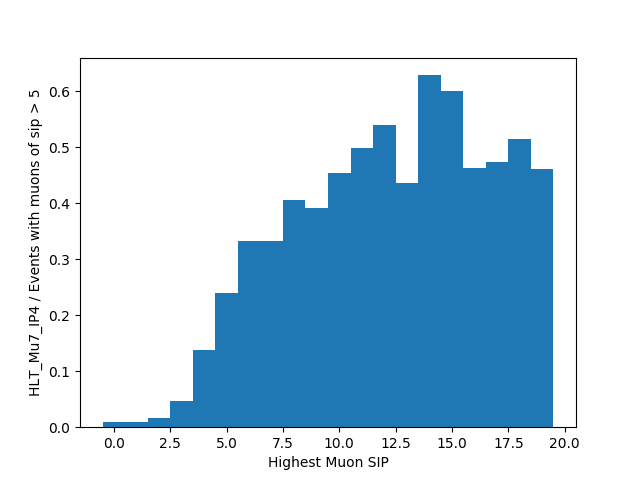
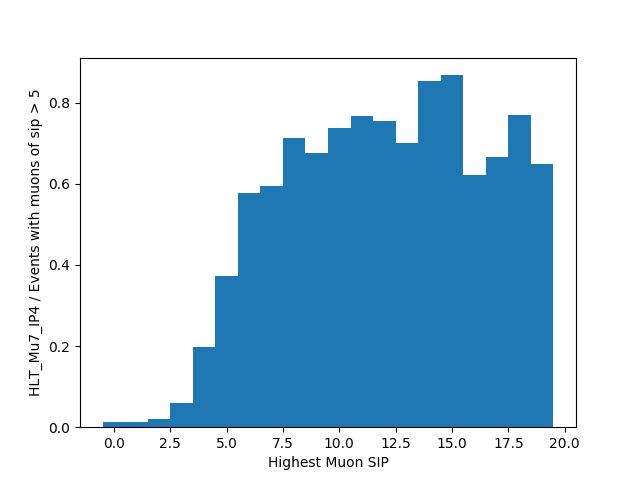
Added global cuts to trigger plots and made Event objects more dynamic on initialization

diff --git a/n00dle.py b/n00dle.py
@@ -132,7 +132,7 @@ def ana(files):
         bs.phi = temp_phi
         del [temp_pt,temp_eta,temp_phi]
 
-        ev = Event(bs.pt,bs,jets)
+        ev = Event(bs,jets)
         jets.cut(jets.pt>0)
         bs.cut(bs.pt>0)
         ev.sync()
@@ -225,11 +225,16 @@ def trig(files):
         ## Open the file and retrieve our key branches
         f = uproot.open(files[fnum])
         events = f.get('Events')
-        Muon = PhysObj('Muon',files[fnum],'pt','eta','phi','sip3d')
+        Muon = PhysObj('Muon',files[fnum],'pt','eta','phi','sip3d','mediumId')
         Trig = PhysObj('trig')
         Trig.vals = pd.DataFrame(events.array('HLT_Mu7_IP4_part0')).rename(columns=inc)
-        #ev = Event(Muon.pt,Muon,Trig)
+        ev = Event(Muon,Trig)
         print('Processing ' + str(len(Muon.pt)) + ' events')
+    
+        ##Perform global cuts
+        Muon.cut(abs(Muon.eta)<1.5)
+        Muon.cut(Muon.mediumId==True)
+        ev.sync()
 
         ## Cut muons and trim triggers to the new size
         MuonP = Muon.cut(Muon.sip3d>5,split=True)

diff --git a/analib.py b/analib.py
@@ -154,19 +154,13 @@ class PhysObj(DefaultMunch):
         return s
 
 class Event():
-    def __init__(s,tar,*args):
-        if isinstance(tar,str):
-            s.frame = pd.DataFrame(uproot.open(tar).get('Events').array('Muon_pt'))
-        elif isinstance(tar,pd.DataFrame):
-            s.frame = tar
-        elif isinstance(tar,awkward.array.jagged.JaggedArray):
-            s.frame = pd.DataFrame(tar)
-        else:
-            raise Exception("Event was initialized without an appropriate frame of events")
+    def __init__(s,*args):
+        if len(args) == 0:
+            raise Exception("Event was initialized without an appropriate object")
         s.objs = {}
-        if len(args) != 0:
-            for arg in args:
-                s.register(arg)
+        for arg in args:
+            s.register(arg)
+        s.frame = args[0][list(args[0].keys())[0]]
 
     def __getitem__(s,obj):
         return s.objs[obj]
